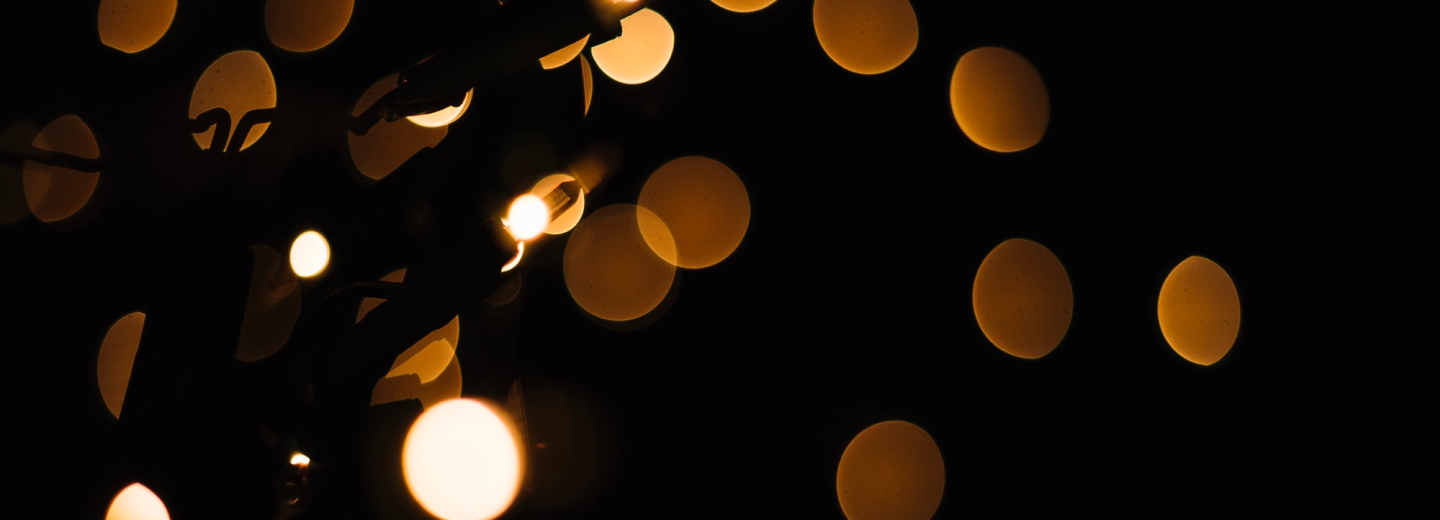
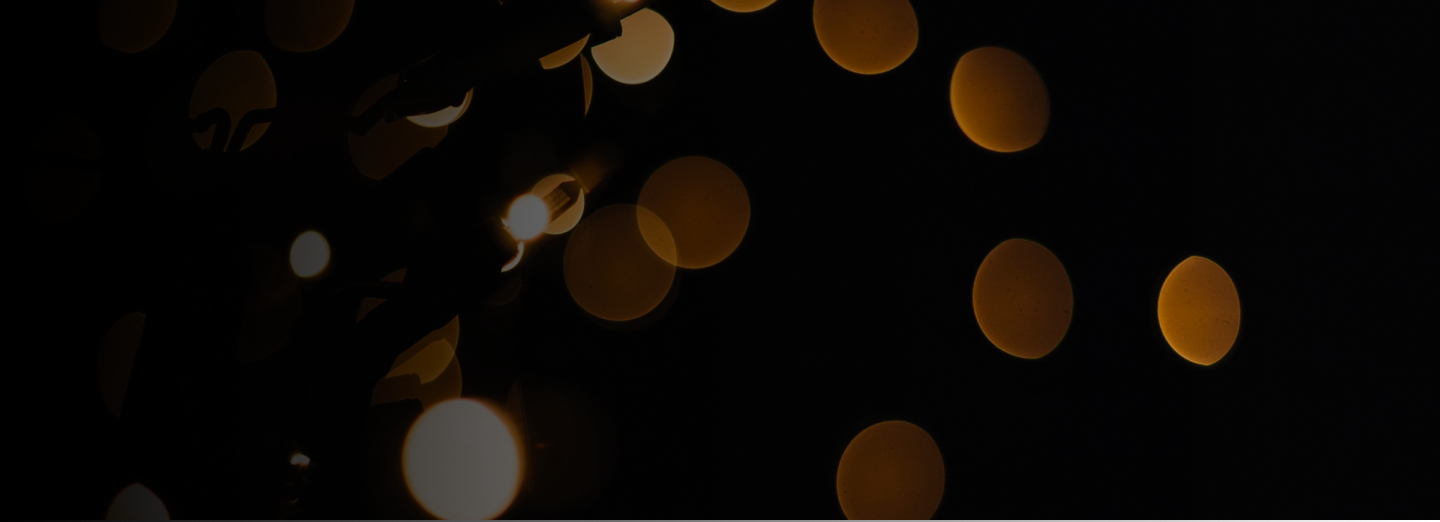
home p1 done (#22)

diff --git a/src/app/footer/footer.component.html b/src/app/footer/footer.component.html
@@ -11,19 +11,19 @@
         <h3 class="footer-heading fw-semibold mb-3">Explore</h3>
         <ul class="footer-links list-unstyled">
           <li class="mb-1">
-            <a [routerLink]="''" class="footer-link">Home</a>
+            <a [routerLink]="'/'" class="footer-link">Home</a>
           </li>
           <li class="mb-1">
-            <a [routerLink]="''" class="footer-link">Projects</a>
+            <a [routerLink]="'/projects'" class="footer-link">Projects</a>
           </li>
           <li class="mb-1">
-            <a [routerLink]="''" class="footer-link">Blogs</a>
+            <a [routerLink]="'/blogs'" class="footer-link">Blogs</a>
           </li>
           <li class="mb-1">
-            <a [routerLink]="''" class="footer-link">About Us</a>
+            <a [routerLink]="'/about'" class="footer-link">About Us</a>
           </li>
           <li class="mb-1">
-            <a [routerLink]="''" class="footer-link">Contact Us</a>
+            <a [routerLink]="'/contact'" class="footer-link">Contact Us</a>
           </li>
         </ul>
       </div>

diff --git a/src/app/header-new/header-new.component.html b/src/app/header-new/header-new.component.html
@@ -4,7 +4,7 @@
 >
   <div class="container-fluid">
     <div class="d-flex justify-content-between">
-      <img class="logo" src="logo.png" alt="Logo" />
+      <img class="logo" [routerLink]="'/'" src="logo.png" alt="Logo" />
 
       <button
         class="navbar-toggler d-lg-none"
@@ -43,7 +43,7 @@
   [attr.data-status]="isScrolled ? 'scrolled' : null"
 >
   <div class="d-flex align-items-center container-large">
-    <img class="logo" src="logo.png" alt="Logo" />
+    <img class="logo" [routerLink]="'/'" src="logo.png" alt="Logo" />
     <button
       class="navbar-toggler d-lg-none"
       type="button"

diff --git a/src/app/home/about-section/about-section.component.ts b/src/app/home/about-section/about-section.component.ts
@@ -1,12 +1,11 @@
 import { Component } from '@angular/core';
+import { RouterModule } from '@angular/router';
 
 @Component({
   selector: 'app-about-section',
   standalone: true,
-  imports: [],
+  imports: [RouterModule],
   templateUrl: './about-section.component.html',
-  styleUrl: './about-section.component.scss'
+  styleUrl: './about-section.component.scss',
 })
-export class AboutSectionComponent {
-
-}
+export class AboutSectionComponent {}

diff --git a/src/app/home/consultation/consultation.component.ts b/src/app/home/consultation/consultation.component.ts
@@ -1,12 +1,11 @@
 import { Component } from '@angular/core';
+import { RouterModule } from '@angular/router';
 
 @Component({
   selector: 'app-consultation',
   standalone: true,
-  imports: [],
+  imports: [RouterModule],
   templateUrl: './consultation.component.html',
-  styleUrl: './consultation.component.scss'
+  styleUrl: './consultation.component.scss',
 })
-export class ConsultationComponent {
-
-}
+export class ConsultationComponent {}

diff --git a/src/app/home/home.component.html b/src/app/home/home.component.html
@@ -1,7 +1,7 @@
 <div>
   <div class="banner">
     <div
-      class="container-fluid h-100 d-flex flex-column justify-content-end pb-5 text-center"
+      class="container h-100 d-flex flex-column justify-content-end pb-5 text-center"
     >
       <h1 class="brand-name">SEETIMAAR FILMS</h1>
       <h6 class="mb-5 pb-5 tagline">Zindagi Ko Picture Bana Ke Seeti Maar</h6>

diff --git a/src/app/home/about-section/about-section.component.html b/src/app/home/about-section/about-section.component.html
@@ -28,7 +28,7 @@
           always earned. Because let’s face it—without these unsung heroes, even
           the best script would just be a Word document.
         </p>
-        <button class="b-read mt-4">Read More</button>
+        <button class="b-read mt-4" [routerLink]="'/about'">Read More</button>
       </div>
     </div>
   </div>

diff --git a/src/app/home/consultation/consultation.component.html b/src/app/home/consultation/consultation.component.html
@@ -15,7 +15,10 @@
         script would just be a Word document.
       </p>
 
-      <button class="px-5 py-2 text-white booking-btn">
+      <button
+        class="px-5 py-2 text-white booking-btn"
+        [routerLink]="'/contact'"
+      >
         Book a consultation
       </button>
     </div>

diff --git a/src/app/home/consultation/consultation.component.scss b/src/app/home/consultation/consultation.component.scss
@@ -5,7 +5,6 @@
   background-size: cover;
   background-repeat: no-repeat;
   background-position: center;
-  filter: brightness(0.5);
   .book-section {
     padding: 80px 20px;
     @include mq(lg) {
